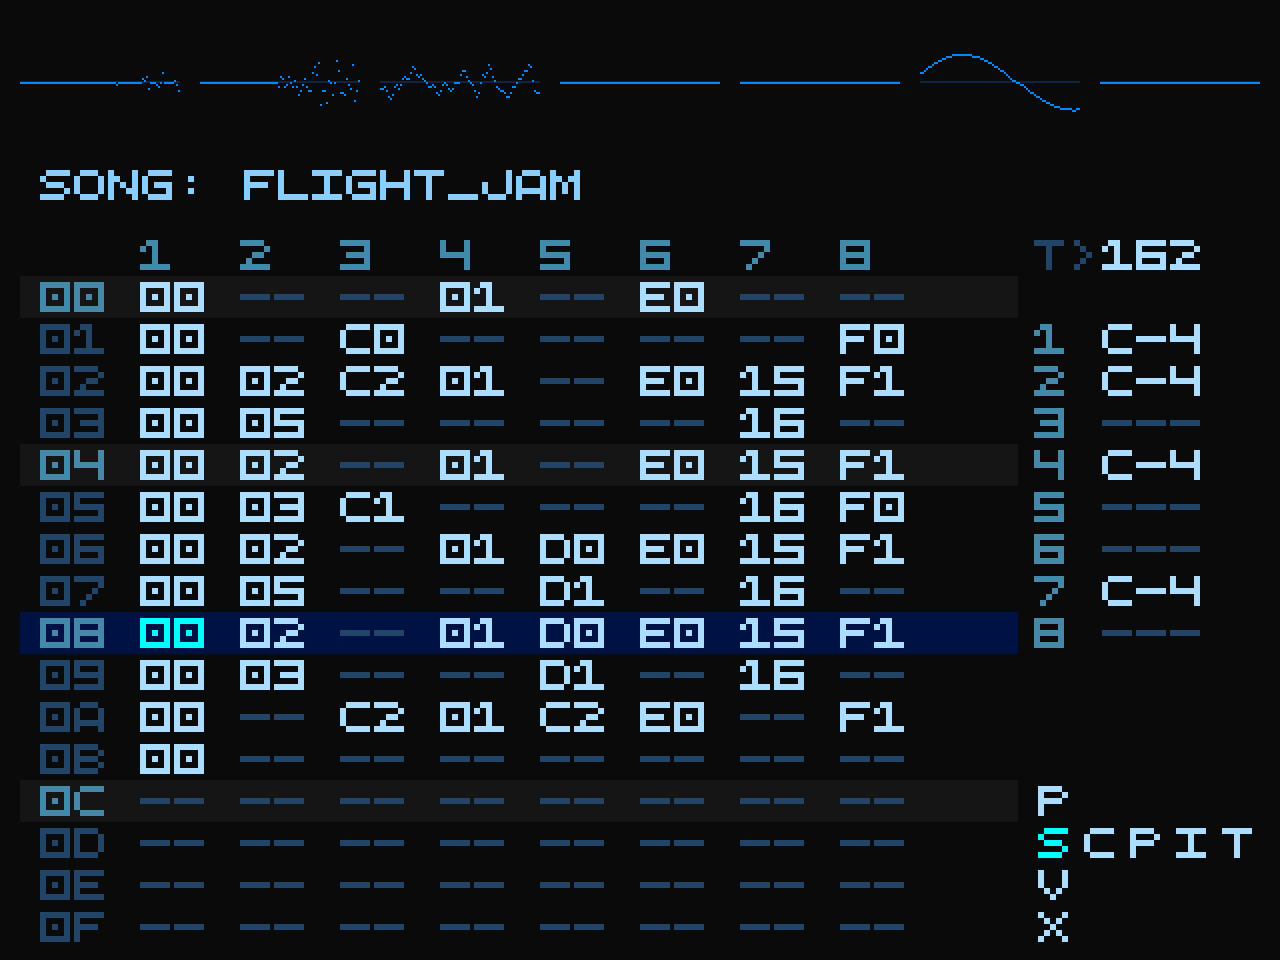
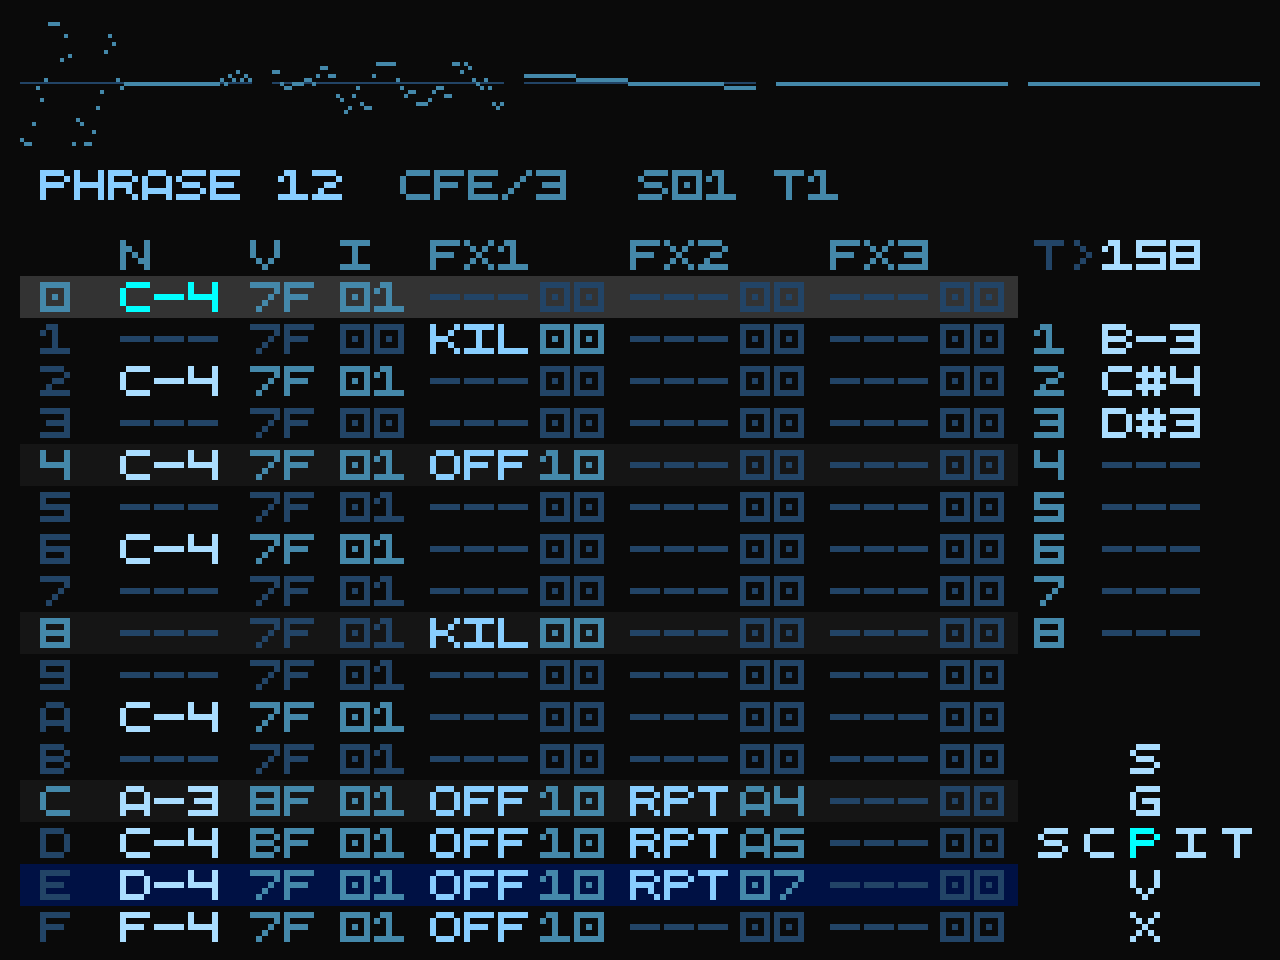
[Release] Bump to v0.9.6
versionCode 960, versionName 0.9.6, and changelogs/960.txt beside them — F-Droid reads
both out of the tagged commit's tree, so they ship together or not at all. PT_VERSION
is parsed from build.gradle.kts by native/cmake/pt_version.cmake and needs no second
edit; the regex still matches.

THE DOCS PASS WAS ALMOST EMPTY, AND THAT IS THE POINT. Nine of the 23 commits since
v0.9.5 carried their own docs/*.md edits, so walking the commit list to write a
paragraph each had nothing to find. What was left: two version strings, and two
sentences that still said SF2-only after .sf3 came back — README's instrument
paragraph and fastlane's full_description.

F-DROID PUBLISHED 0.9.5 ON 19 AUGUST and their bot skipped 0.9.4 entirely, so the
badge is earned and goes in README's Android section above Obtainium. The caveat under
it is the one thing neither public page said: the recipe carries no
AllowedAPKSigningKeys, so F-Droid signs its own build and its APK will not install over
the GitHub-Releases one in either direction. A user switching channels uninstalls
first, and that takes their settings. The landing page gets the same button and the
same sentence, on gh-pages, after this release is published and its download links can
be moved to 0.9.6.

The screenshots are the user's: fastlane 1.png and the new 2.png are device mockups at
1220x2712, and docs/images/screenshot.png is a fresh 1280x960 PHRASE render. A third,
[…]

diff --git a/README.md b/README.md
@@ -12,7 +12,7 @@ One codebase and one audio engine across Android, Linux handhelds, Linux desktop
 
 > **Note:** This project was developed with AI assistance. If that bothers you, this project isn't for you.
 
-**Status:** 0.9.5 — public beta
+**Status:** 0.9.6 — public beta
 
 **License:** [GPL-3.0](LICENSE)
 
@@ -21,7 +21,7 @@ One codebase and one audio engine across Android, Linux handhelds, Linux desktop
 ## Features
 
 ### Instruments
-Two instrument types: a **sampler** that loads WAV, MP3, M4A, FLAC, OGG and Opus files, and a **SoundFont** player for SF2 files.
+Two instrument types: a **sampler** that loads WAV, MP3, M4A, FLAC, OGG and Opus files, and a **SoundFont** player for SF2 and SF3 files.
 
 ### Sampling from video
 Just screen record stuff from YouTube or your favourite video games and sample it with the built-in video-to-WAV converter!
@@ -69,7 +69,11 @@ All packages are on the [Releases](https://github.com/conanizer/pockettracker/re
 
 ### Android
 
-**One-click (recommended):** install [Obtainium](https://github.com/ImranR98/Obtainium), then tap the badge below on your device. PocketTracker is added straight from GitHub Releases and Obtainium keeps it up to date automatically.
+**F-Droid:** PocketTracker is in the main F-Droid repository. Tap the badge, or search for it in the F-Droid app.
+
+[<img src="https://fdroid.gitlab.io/artwork/badge/get-it-on.png" alt="Get it on F-Droid" height="54">](https://f-droid.org/packages/com.conanizer.pockettracker/)
+
+**Obtainium:** install [Obtainium](https://github.com/ImranR98/Obtainium), then tap the badge below on your device. PocketTracker is added straight from GitHub Releases and Obtainium keeps it up to date automatically — new versions appear here on release day, a few days before F-Droid builds them.
 
 [<img src="https://raw.githubusercontent.com/ImranR98/Obtainium/main/assets/graphics/badge_obtainium.png" alt="Get it on Obtainium" height="54">](https://apps.obtainium.page/redirect?r=obtainium://add/https://github.com/conanizer/pockettracker)
 
@@ -80,6 +84,8 @@ https://github.com/conanizer/pockettracker
 ```
 
 **Manual:** download `PocketTracker-<version>.apk` and open it on your device (allow "install from unknown sources" if asked).
+
+⚠ **Pick one and stay with it.** F-Droid builds and signs its own copy, so its APK and the one from GitHub Releases carry different signatures. Android will not install either over the other — switching means uninstalling first, which takes your settings with it. Your projects and samples are untouched.
 
 PocketTracker requests **no permissions**. On first run, open a file browser and press **A** on the `ADD FOLDER...` row — Android's folder picker opens, and the folder you choose is where your projects, samples and renders live. See the [quick-start guide](docs/quick-start-guide.md).
 
